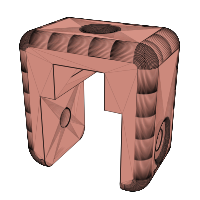
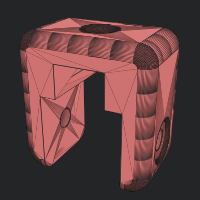
Add background color options

diff --git a/lib/thumbnailer.js b/lib/thumbnailer.js
@@ -11,14 +11,12 @@ export default class Thumbnailer {
                         width: width,
                         height: height,
                         baseOpacity: 1,
-                        metallicOpacity: 0.2,
+                        metallicOpacity: 0.5,
                         showMinorEdges: false,
                         cameraAngle: [50, 50, 100],
-                        //  backgroundColor: 0x2f3033,
-                        // backgroundColor: 0x242527,
-                        backgroundColor: 0x000000,
+                        backgroundColor: "rgb(36, 37, 39)",
                         baseColor: baseColor,
-                        lineColor: 0x000000
+                        lineColor: "rgb(36, 37, 39)",
                     }
                 ]
             }).then(thumbnails => {

diff --git a/index.js b/index.js
@@ -15,7 +15,7 @@ const StlsToImage = class StlsToImage {
             const thumbnailer = new Thumbnailer();
             files.recursiveRead(process.argv[2], item => {
                 if ( item.file.endsWith(".stl") ) {
-                    thumbnailer.addThumbnail(item.path, item.path+".png", 200, 200, 0xba4b36);
+                    thumbnailer.addThumbnail(item.path, item.path+".png", 200, 200, "rgb(190, 39, 36)");
                 }
             });
         }
